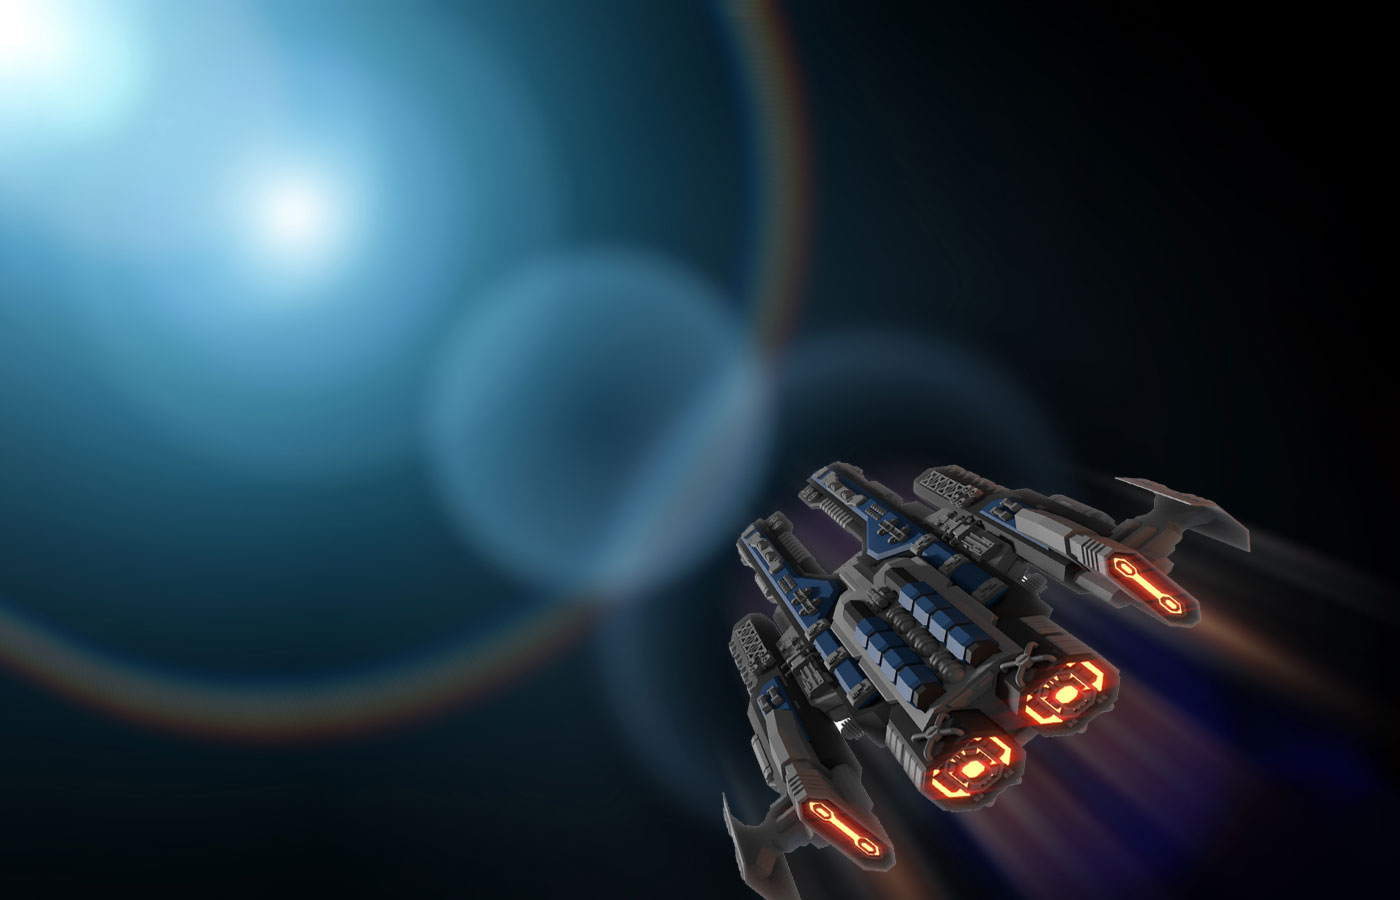
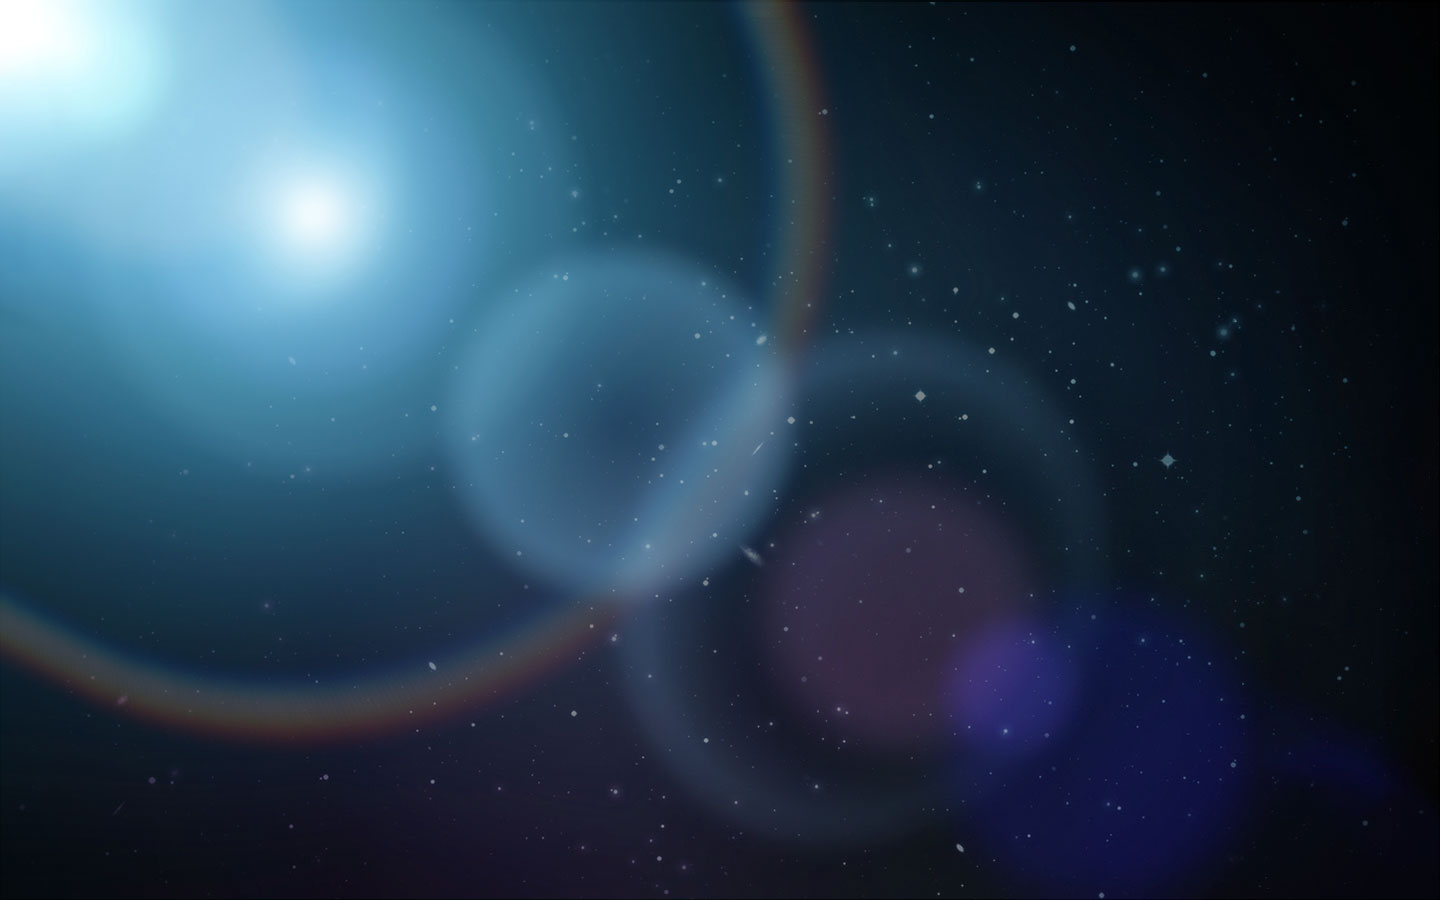
Fixed BaseObject Class Fixed SplashScreen

diff --git a/MyGame/MyGame/Game.cs b/MyGame/MyGame/Game.cs
@@ -38,6 +38,7 @@ namespace MyGame
         private static Button recordsBtn;
         private static Button exitBtn;
 
+        private static Timer timer = new Timer();
         static Label sign;
         #endregion
 
@@ -84,15 +85,12 @@ namespace MyGame
             // Link the buffer in memory with the graphic object to draw in the buffer
             Buffer = Context.Allocate(g, new Rectangle(0, 0, Width, Height));
 
-            Timer timer = new Timer { Interval = 100 };
+            timer.Interval = 4;
             timer.Start();
             timer.Tick += Timer_Tick;
 
             if (Program.GameStart == true)
-            {
-                timer.Interval = 60;
                 Load();
-            }
             else PreLoad();
 
 
@@ -137,27 +135,27 @@ namespace MyGame
         {
             #region region properties
             int baseObjQty = 10;
-            int starQty = 20;
-            int spaceObjQty = 20;
+            int starQty = 25;
+            int spaceObjQty = 10;
             int planetQty = 7;
             int sunQty = 5;
 
             int baseObjMaxSize = 5;
             int starMaxSize = 5;
-            int spaceObjMaxSize = 6;
-            int sunMaxSize = 6;
+            int spaceObjMaxSize = 1;
+            int sunMaxSize = 1;
 
-            int baseObjMaxSpeed = 5;
+            int baseObjMaxSpeed = 4;
             int starMaxSpeed = 3;
             int spaceObjMaxSpeed = 6;
-            int planetMaxSpeed = 6;
-            int sunMaxSpeed = 5;
+            int planetMaxSpeed = 7;
+            int sunMaxSpeed = 7;
 
             int spaceObjVariety = 10; //quantity of space objects pictures
             #endregion
 
             #region Background
-            ObjsList.Add(new Background(new Point(1, 1), new Point(1, 1), new Size(1, 1), "Background"));
+            ObjsList.Add(new Background("Background"));
             #endregion
 
             #region base objects
@@ -218,8 +216,8 @@ namespace MyGame
         public static void PreLoad()
         {
             #region region properties
-            int baseObjQty = 10;
-            int starQty = 20;
+            int baseObjQty = 20;
+            int starQty = 40;
             int spaceObjQty = 20;
             int planetQty = 7;
             int sunQty = 5;
@@ -230,8 +228,8 @@ namespace MyGame
             int sunMaxSize = 6;
 
             int baseObjMaxSpeed = 5;
-            int starMaxSpeed = 3;
-            int spaceObjMaxSpeed = 6;
+            int starMaxSpeed = 7;
+            int spaceObjMaxSpeed = 10;
             int planetMaxSpeed = 6;
             int sunMaxSpeed = 5;
 
@@ -239,16 +237,16 @@ namespace MyGame
             #endregion
 
             #region Background
-            ObjsList.Add(new Background(new Point(1, 1), new Point(1, 1), new Size(1, 1), "Background2"));
+            ObjsList.Add(new Background("Background2"));
             #endregion
 
             #region base objects
             for (int i = 0; i < baseObjQty; i++)
             {
                 int size = rnd.Next(1, baseObjMaxSize);
-                int spdX = rnd.Next(2, baseObjMaxSpeed);
-                int spdY = 1;
-                ObjsList.Add(new BaseObject(new Point(rnd.Next(1, Width), rnd.Next(1, Height)), new Point(spdX, spdY), new Size(size, size)));
+                int spdX = rnd.Next(1, baseObjMaxSpeed);
+                int spdY = rnd.Next(1, baseObjMaxSpeed);
+                ObjsList.Add(new BaseObject(new Point(rnd.Next(290, 300), rnd.Next(215, 225)), new Point(spdX, spdY), new Size(size, size)));
             }
             #endregion
 
@@ -256,12 +254,15 @@ namespace MyGame
             for (int i = 0; i < starQty; i++)
             {
                 int size = rnd.Next(1, starMaxSize);
-                int spdX = rnd.Next(2, starMaxSpeed);
-                int spdY = 1;
-                ObjsList.Add(new Star(new Point(rnd.Next(1, Width), rnd.Next(1, Height)), new Point(spdX, spdY), new Size(size, size)));
+                int spdX = rnd.Next(1, starMaxSpeed);
+                int spdY = rnd.Next(1, starMaxSpeed);
+                ObjsList.Add(new Star(new Point(rnd.Next(290, 300), rnd.Next(215, 225)), new Point(spdX, spdY), new Size(size, size)));
             }
             #endregion
 
+            #region StarShip
+            ObjsList.Add(new Background(new Point(705,460),"StarShip","png"));
+            #endregion
             //#region SpaceObjects
             //for (int i = 1; i <= spaceObjQty; i++)
             //{
@@ -351,17 +352,12 @@ namespace MyGame
 
         private static void StartGame(object sender, EventArgs e)
         {
-            //Program.FormNumber = 2;
-            //Program.form.Controls.Clear();
             Program.GameStart = true;
 
             ObjsList.Clear();
             Game.Init(Program.form);
-            Game.Draw();
+            timer.Interval = 60;
 
-            //Timer timer = new Timer { Interval = 100 };
-            //timer.Start();
-            //timer.Tick += Timer_Tick;
         }
 
         private static void RecordDesk(object sender, EventArgs e)

diff --git a/MyGame/MyGame/Background.cs b/MyGame/MyGame/Background.cs
@@ -17,20 +17,44 @@ namespace MyGame
         private Image Img { get; set; }
 
         /// <summary>
-        /// 
+        /// Background object with upper-left corner of the screen position witout movement
+        /// </summary>
+        /// <param name="imageName"></param>
+        public Background(string imageName) : this (new Point(1,1), new Point(1, 1), new Size(1, 1), imageName, "jpg")
+        {
+        }
+
+        /// <summary>
+        /// Background object with upper-left corner of the screen position witout movement
+        /// </summary>
+        /// <param name="imageName"></param>
+        public Background(Point Pos, string imageName, string extension) : this (Pos, new Point(1, 1), new Size(1, 1), imageName, extension)
+        {
+        }
+
+        /// <summary>
+        /// Background object with upper-left corner of the screen position witout movement
+        /// </summary>
+        /// <param name="imageName"></param>
+        public Background(string imageName, string extension) : this (new Point(1,1), new Point(1, 1), new Size(1, 1), imageName, extension)
+        {
+        }
+
+        /// <summary>
+        /// Background object with set parametes
         /// </summary>
         /// <param name="pos">Upper left position of the backgound picture</param>
         /// <param name="dir">Direction of movement the background in a case you would like to make it not static</param>
         /// <param name="size">Size of the picture</param>
         /// <param name="imageName">Image name without file extention (intended use of "jpg" files)</param>
-        public Background(Point pos, Point dir, Size size, string imageName) : base(pos, dir, size)
+        public Background(Point pos, Point dir, Size size, string imageName, string extension) : base(pos, dir, size)
         {
             this.imageName = imageName;
 
             try
             {
                 // Creating an image
-                Img = Image.FromFile($"..\\..\\{imageName}.jpg");
+                Img = Image.FromFile($"..\\..\\{imageName}.{extension}");
             }
             catch (Exception e)
             {
@@ -44,15 +68,12 @@ namespace MyGame
         public override void Draw()
         {
             // Create Point (upper-left corner of image)
-            Point ulCorner = Position;
+            Point ulCorner = Pos;
             // Draw image to screen
             Game.Buffer.Graphics.DrawImage(Img, ulCorner);
 
         }
 
-        /// <summary>
-        /// Update of the current object
-        /// </summary>
         public override void Update()
         {
         }

diff --git a/MyGame/MyGame/Star.cs b/MyGame/MyGame/Star.cs
@@ -28,21 +28,13 @@ namespace MyGame
         /// </summary>
         public override void Draw()
         {
-            Game.Buffer.Graphics.DrawLine(Pens.White, Position.X, Position.Y, Position.X + Size.Width, Position.Y + Size.Height);
-            Game.Buffer.Graphics.DrawLine(Pens.White, Position.X + Size.Width, Position.Y, Position.X, Position.Y + Size.Height);
-            Game.Buffer.Graphics.DrawLine(Pens.White, Position.X + Size.Width / 2, Position.Y - Size.Width / 6, Position.X + Size.Width / 2, Position.Y + Size.Height + Size.Height / 5);
-            Game.Buffer.Graphics.DrawLine(Pens.White, Position.X - Size.Width / 6, Position.Y + Size.Height / 2, Position.X + Size.Width + Size.Width / 6, Position.Y + Size.Height / 2);
+            Game.Buffer.Graphics.DrawLine(pen, Pos.X, Pos.Y, Pos.X + Size.Width, Pos.Y + Size.Height);
+            Game.Buffer.Graphics.DrawLine(pen, Pos.X + Size.Width, Pos.Y, Pos.X, Pos.Y + Size.Height);
+            Game.Buffer.Graphics.DrawLine(pen, Pos.X + Size.Width / 2, Pos.Y - Size.Width / 6, Pos.X + Size.Width / 2, Pos.Y + Size.Height + Size.Height / 5);
+            Game.Buffer.Graphics.DrawLine(pen, Pos.X - Size.Width / 6, Pos.Y + Size.Height / 2, Pos.X + Size.Width + Size.Width / 6, Pos.Y + Size.Height / 2);
 
         }
 
-        /// <summary>
-        /// Update of the current object
-        /// </summary>
-        public override void Update()
-        {
-            Position.X = Position.X - Direction.X;
-            if (Position.X < 0) Position.X = Game.Width + Size.Width;
-        }
     }
 
 

diff --git a/MyGame/MyGame/SpaceObjects.cs b/MyGame/MyGame/SpaceObjects.cs
@@ -39,7 +39,7 @@ namespace MyGame
         public override void Draw()
         {
             // Create Point (upper-left corner of image)
-            Point ulCorner = Position;
+            Point ulCorner = Pos;
 
             // Draw image to screen
             Game.Buffer.Graphics.DrawImage(Img, ulCorner);
@@ -51,8 +51,8 @@ namespace MyGame
         /// </summary>
         public override void Update()
         {
-            Position.X = Position.X - Direction.X;
-            if (Position.X < -100) Position.X = Game.Width + Size.Width;
+            Pos.X = Pos.X - Dir.X;
+            if (Pos.X < -100) Pos.X = Game.Width + Size.Width;
         }
 
     }

diff --git a/MyGame/MyGame/SpaceShip.cs b/MyGame/MyGame/SpaceShip.cs
@@ -48,7 +48,7 @@ namespace MyGame
         public override void Draw()
         {
             // Create Point (upper-left corner of image)
-            Point ulCorner = Position;
+            Point ulCorner = Pos;
             // Draw image to screen
             Game.Buffer.Graphics.DrawImage(ImgArr[shipStage], ulCorner);
 
